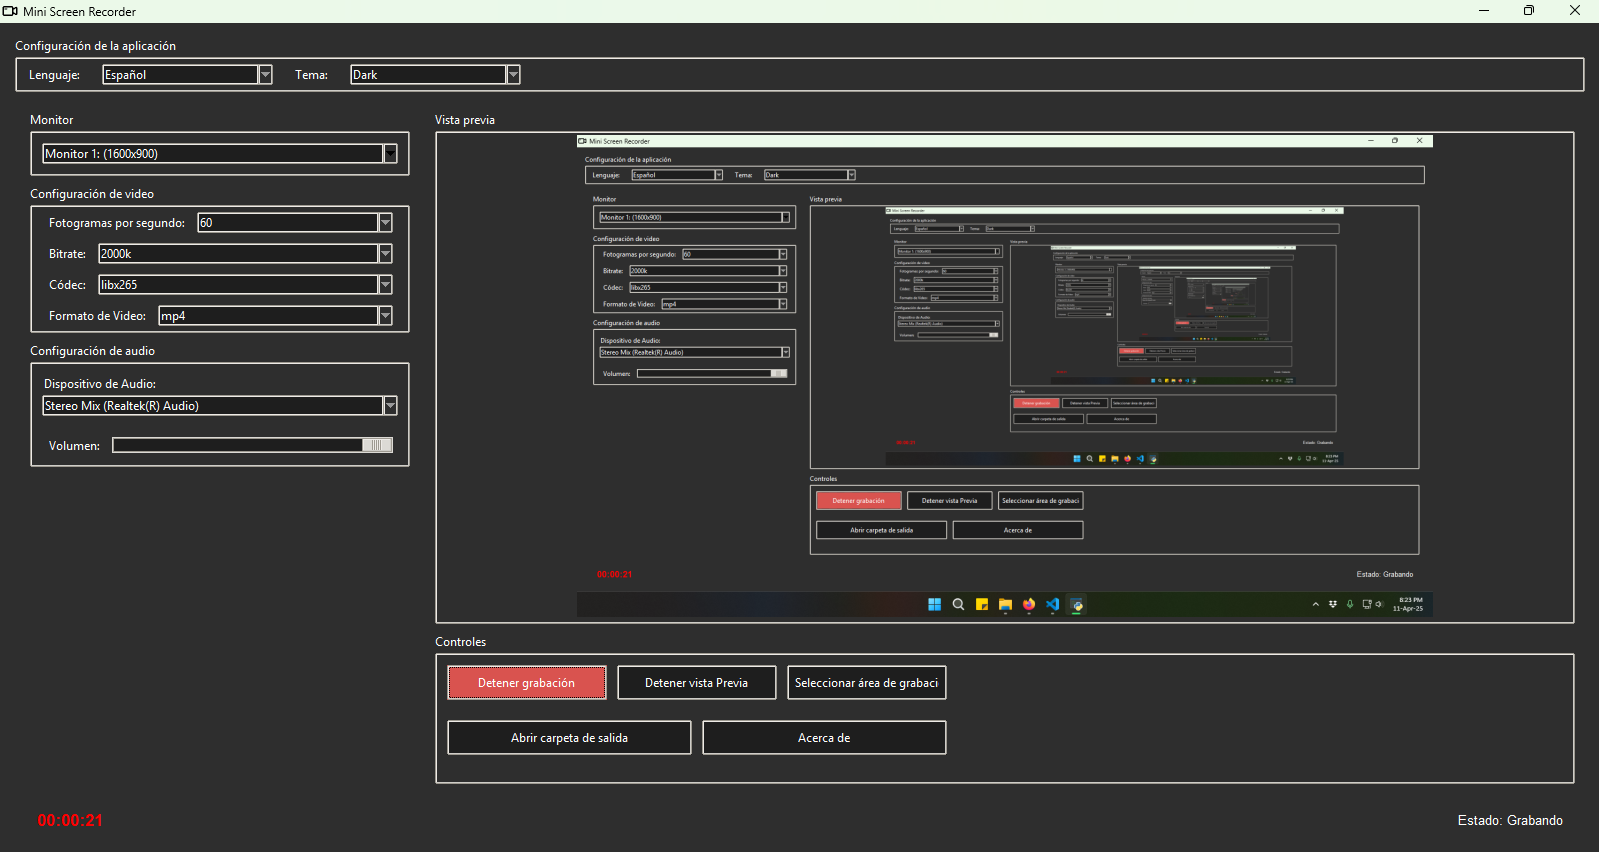
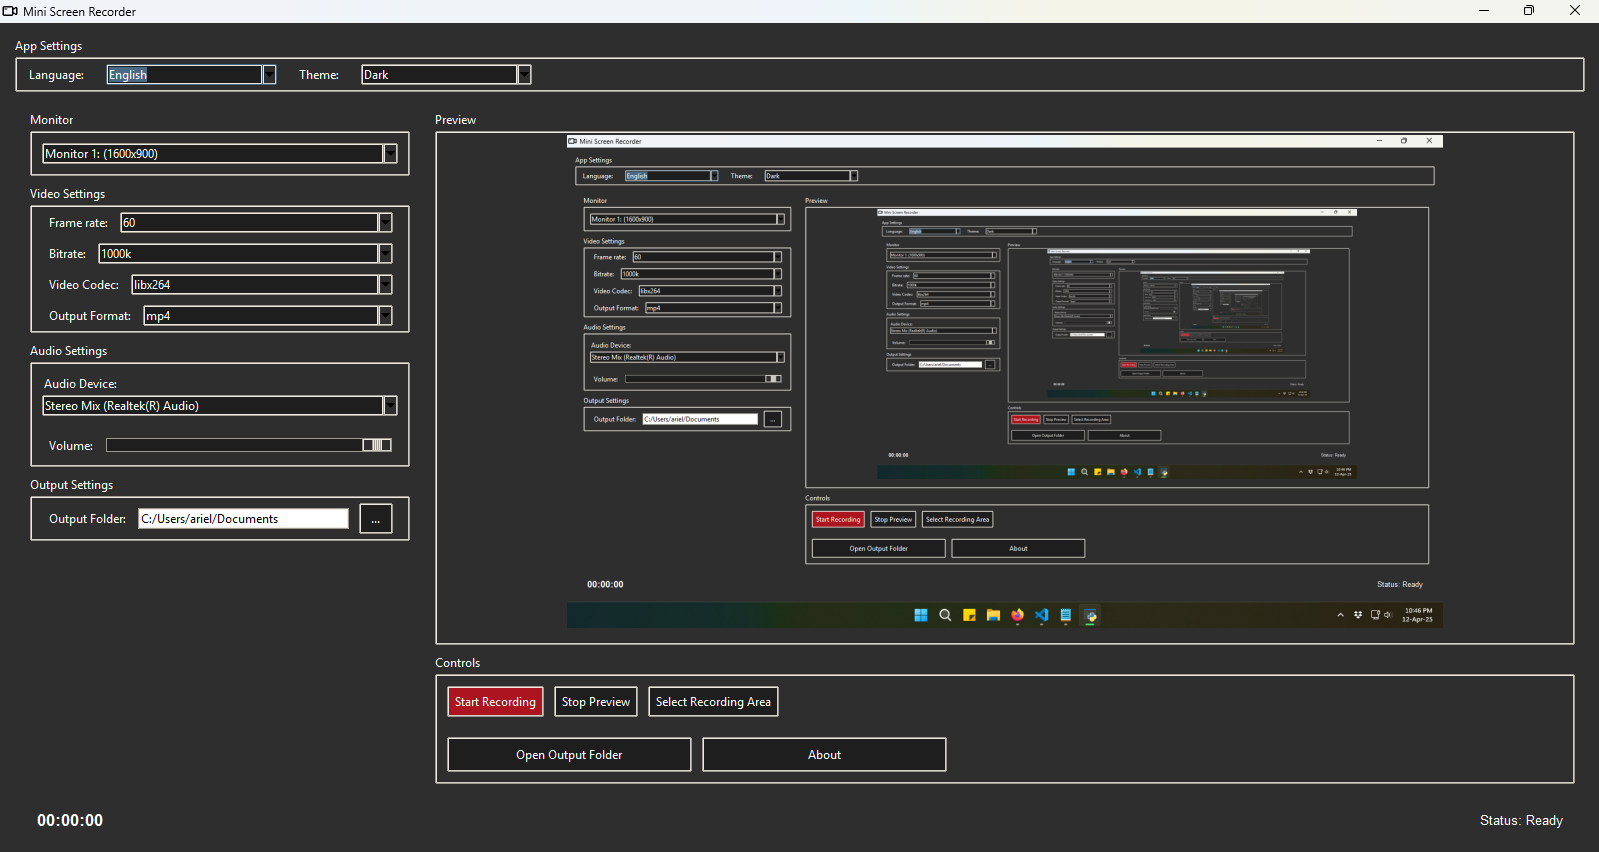
Minor changes UI

diff --git a/base/screen_recorder_base.py b/base/screen_recorder_base.py
@@ -170,9 +170,35 @@ class ScreenRecorderBase(abc.ABC):
         if new_language != self.translation_manager.language:
             self.translation_manager.change_language(new_language)
             self.save_config()
-            messagebox.showinfo(self.t("language_change"), self.t("warning_change_lang"))
-            self.root.destroy()
-            os.execl(sys.executable, sys.executable, *sys.argv)
+            self.update_ui_texts()
+            messagebox.showinfo(self.t("language_change"), self.t("language_changed_success"))
+
+    def update_ui_texts(self):
+        self.top_panel.configure(text=self.t("app_settings"))
+        self.monitor_frame.configure(text=self.t("monitor"))
+        self.video_settings_frame.configure(text=self.t("video_settings"))
+        self.audio_settings_frame.configure(text=self.t("audio_settings"))
+        self.preview_frame.configure(text=self.t("preview"))
+        self.controls_frame.configure(text=self.t("controls"))
+        
+        self.language_label.configure(text=self.t("Language") + ":")
+        self.theme_label.configure(text=self.t("theme") + ":")
+        self.fps_label.configure(text=self.t("framerate") + ":")
+        self.bitrate_label.configure(text=self.t("bitrate") + ":")
+        self.codec_label.configure(text=self.t("video_codec") + ":")
+        self.format_label.configure(text=self.t("output_format") + ":")
+        self.audio_label.configure(text=self.t("audio_device") + ":")
+        self.volume_label.configure(text=self.t("volume") + ":")
+        self.output_settings_frame.configure(text=self.t("output_settings"))
+        self.output_folder_label.configure(text=self.t("output_folder") + ":")
+        
+        self.toggle_btn.configure(text=self.t("start_recording") if not self.running else self.t("stop_recording"))
+        self.preview_btn.configure(text=self.t("start_preview") if not self.preview_running else self.t("stop_preview"))
+        self.select_area_btn.configure(text=self.t("select_recording_area"))
+        self.open_folder_btn.configure(text=self.t("open_output_folder"))
+        self.info_btn.configure(text=self.t("about"))
+        
+        self.status_label.configure(text=self.t("status_recording") if self.running else self.t("status_ready"))
 
     def init_ui(self):
         self.main_frame = ttk.Frame(self.root)
@@ -318,7 +344,7 @@ class ScreenRecorderBase(abc.ABC):
 
         self.controls_spacer = ttk.Frame(self.right_panel, height=165)
         self.controls_spacer.pack(side=tk.BOTTOM, fill=tk.X)
-        self.controls_spacer.pack_propagate(False)
+
 
         self.controls_frame = ttk.LabelFrame(self.controls_spacer, text=self.t("controls"))
         self.controls_frame.pack(fill=tk.BOTH, expand=True, padx=5, pady=5)
@@ -328,15 +354,15 @@ class ScreenRecorderBase(abc.ABC):
 
         self.toggle_btn_frame = ttk.Frame(self.main_buttons_frame, width=160, height=35)
         self.toggle_btn_frame.pack(side=tk.LEFT, padx=5, pady=5)
-        self.toggle_btn_frame.pack_propagate(False)
+        
 
         self.preview_btn_frame = ttk.Frame(self.main_buttons_frame, width=160, height=35)
         self.preview_btn_frame.pack(side=tk.LEFT, padx=5, pady=5)
-        self.preview_btn_frame.pack_propagate(False)
+        
 
         self.select_area_btn_frame = ttk.Frame(self.main_buttons_frame, width=160, height=35)
         self.select_area_btn_frame.pack(side=tk.LEFT, padx=5, pady=5)
-        self.select_area_btn_frame.pack_propagate(False)
+        
 
         self.toggle_btn = ttk.Button(self.toggle_btn_frame, text=self.t("start_recording"), 
                                 command=self.toggle_recording, style="Accent.TButton")
@@ -460,7 +486,7 @@ class ScreenRecorderBase(abc.ABC):
                     if self.preview_label and self.preview_label.winfo_exists():
                         self.root.after(0, self._update_preview_label, tk_image)
 
-                    time.sleep(0.02)
+                    time.sleep(0.03)
                 except tk.TclError:
                     break
                 except Exception as e:
